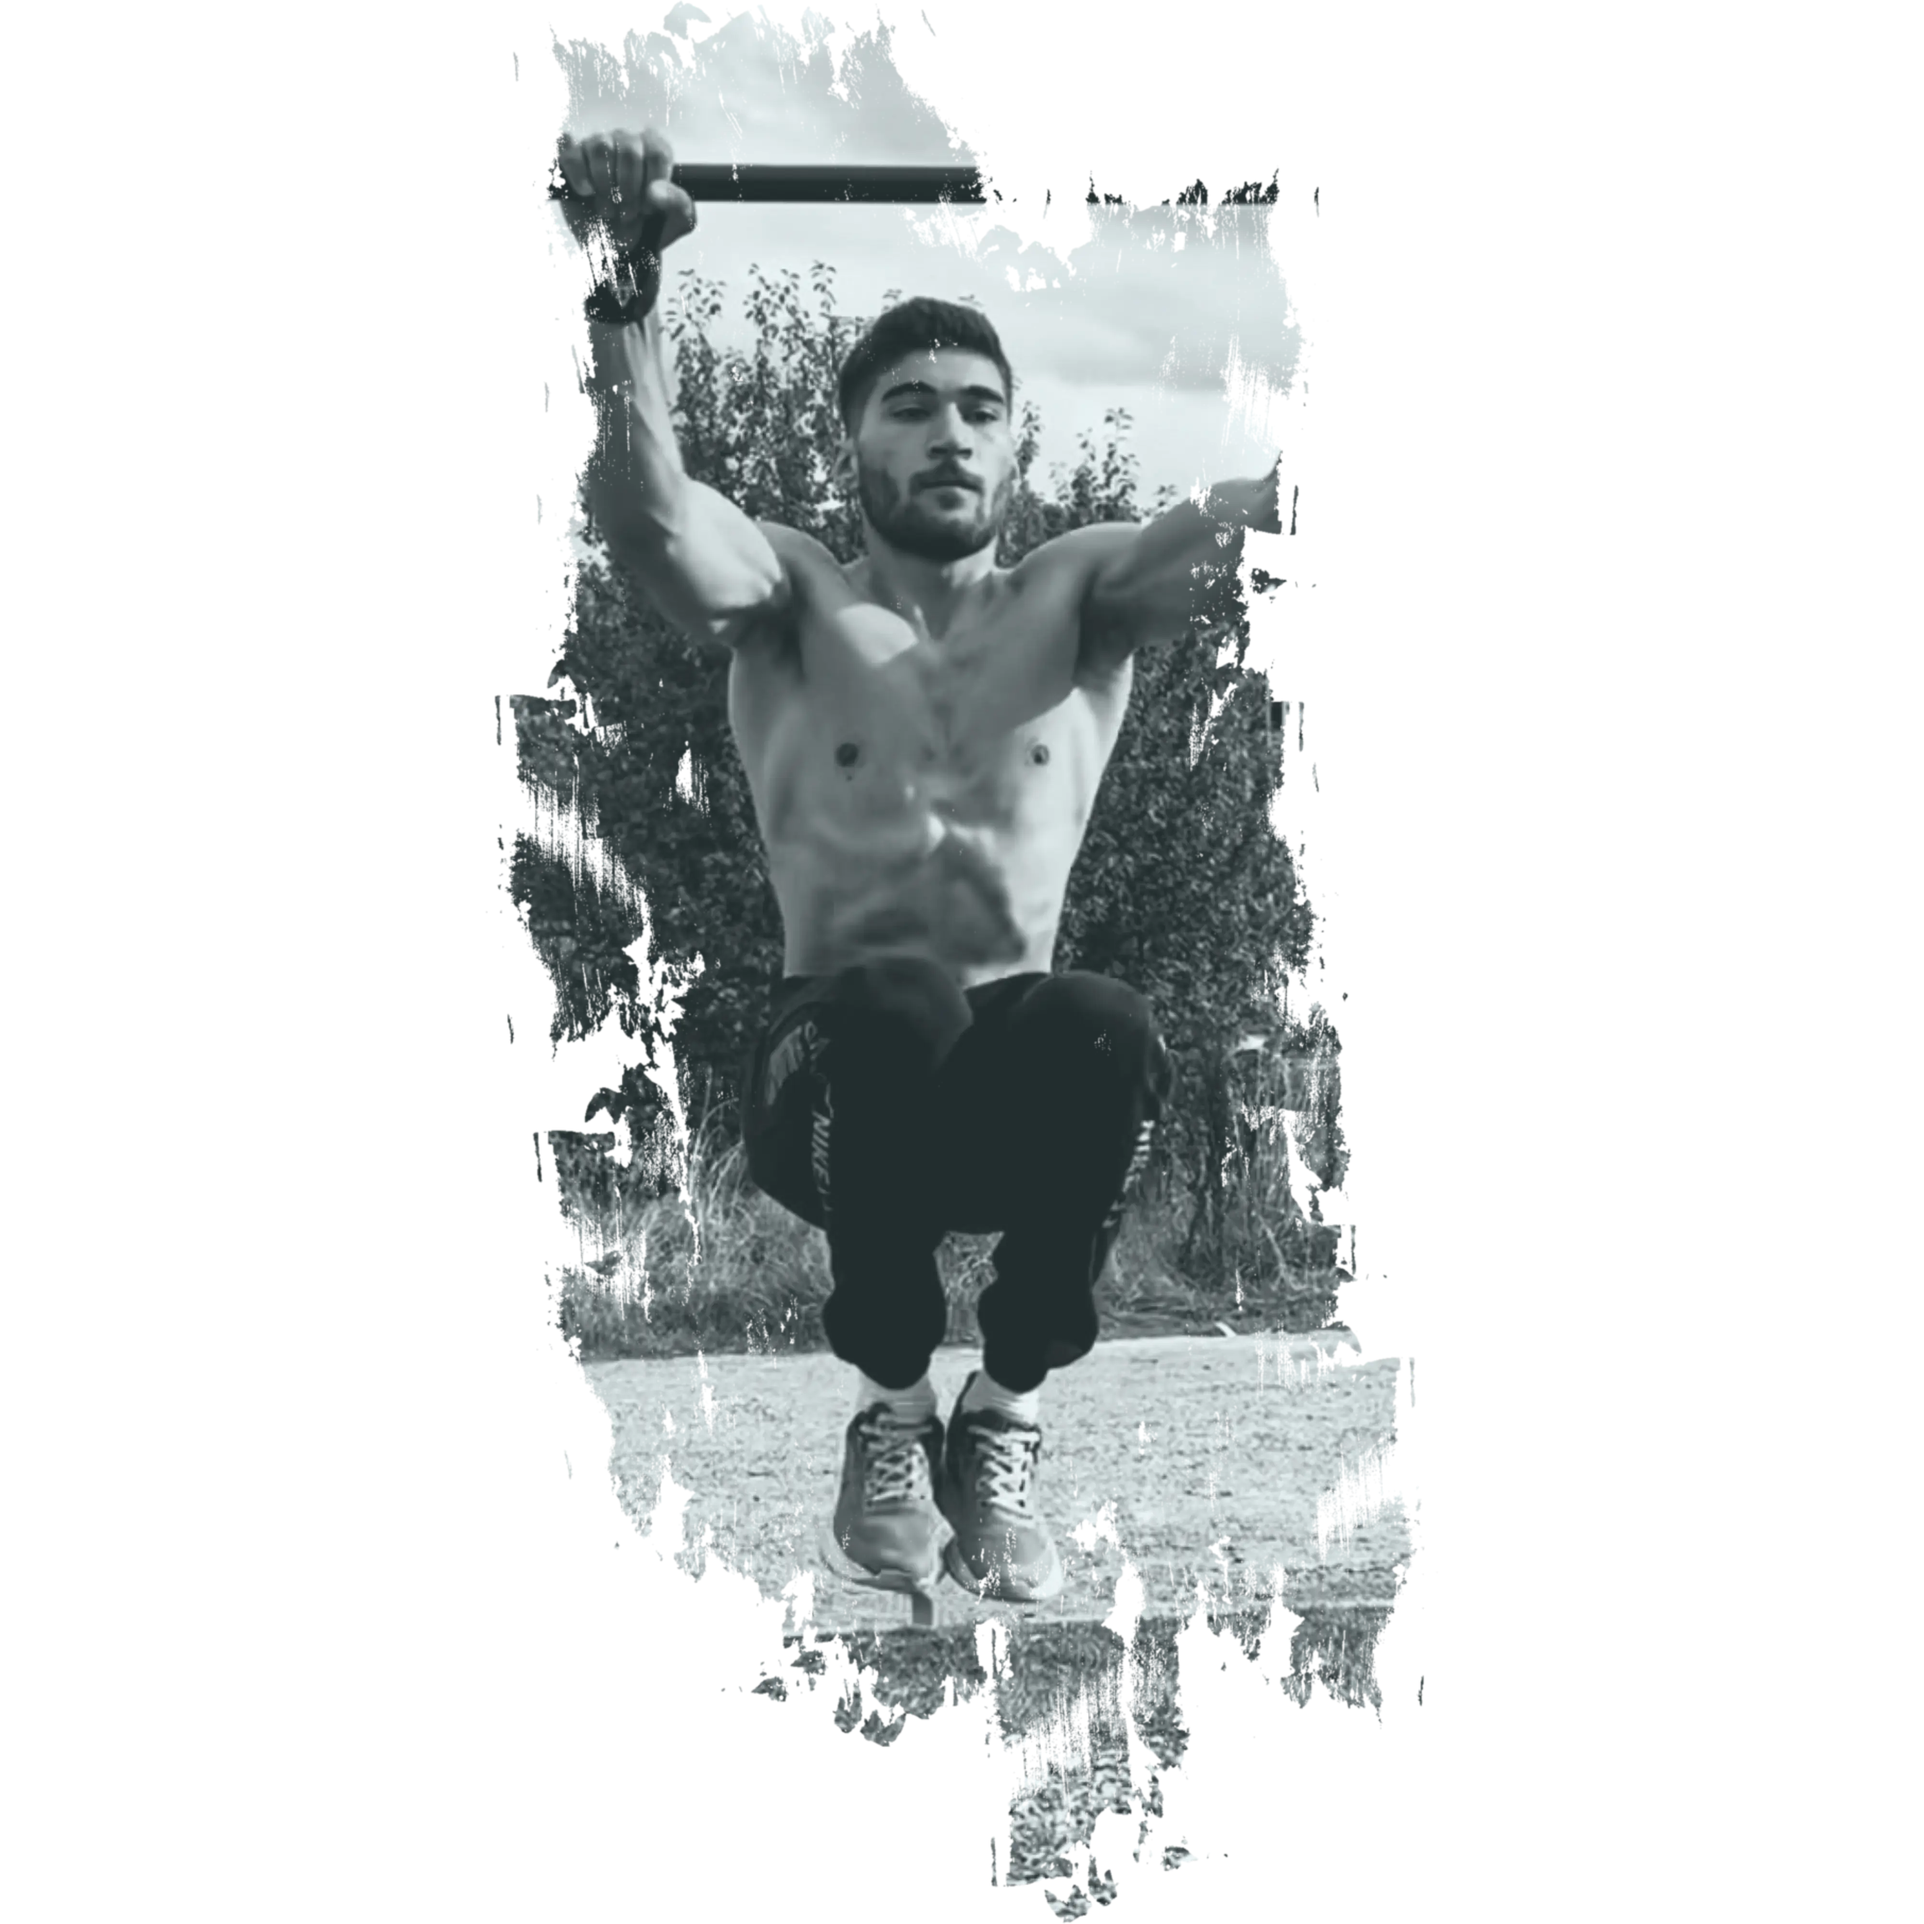
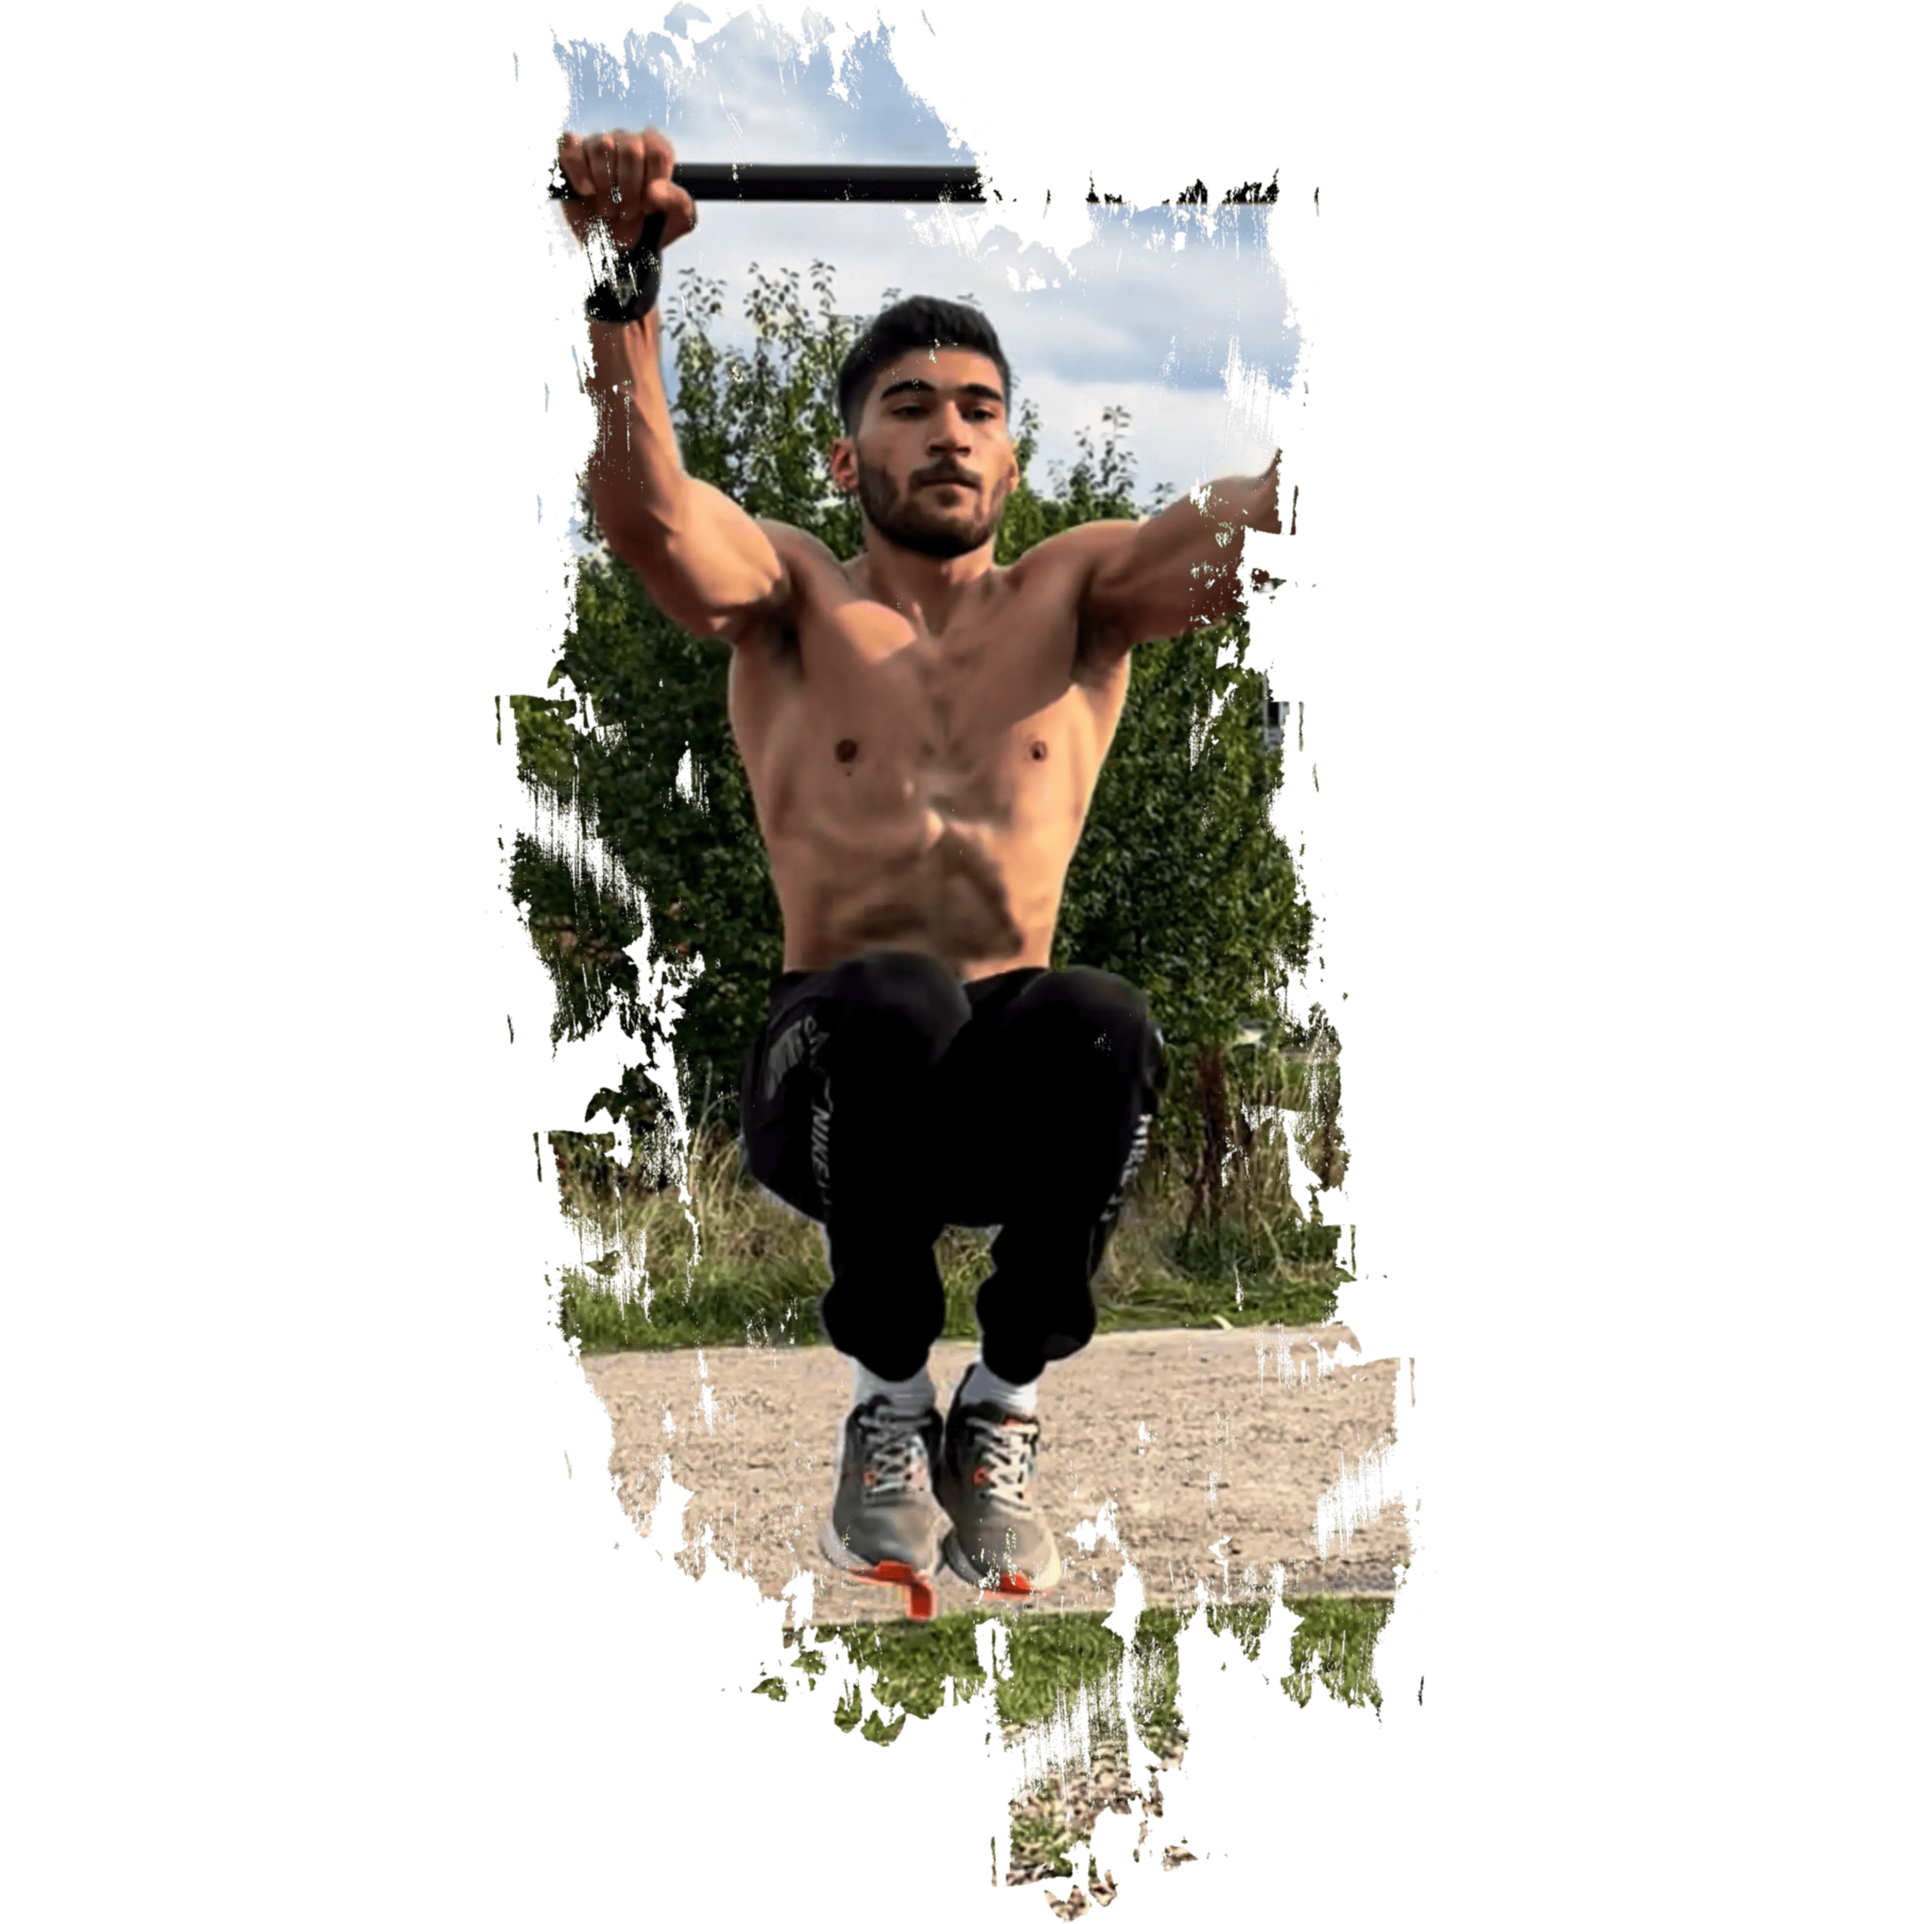
interest section

Changed region(s): [[0.25, 0.0312, 0.75, 1.0], [0.5938, 0.0938, 0.6562, 0.125], [0.5938, 0.1875, 0.625, 0.2188]]

diff --git a/src/components/sections/calisthenicsPage/calisthenicsPage.tsx b/src/components/sections/calisthenicsPage/calisthenicsPage.tsx
@@ -1,0 +1,28 @@
+'use client'
+ import styles from './calisthenicsPage.module.css'
+import SectionLayout from "@/components/sectionLayout/sectionLayout";
+import {sections} from "../../../../dataEntry";
+import Image from "next/image";
+
+export default function CalisthenicsPage(){
+    return(
+        <>
+            <SectionLayout id={sections.calisthenicsPage.id} name={sections.calisthenicsPage.title} number={5} >
+                <div className={`${styles.Container}`}>
+                    <div className={`${styles.LeftSide}`}>
+                        <div className={`${styles.Content}`}>
+                            I am passionate about calisthenics and enjoy the physical and mental benefits it provides.
+                            It's a great sport for strength training and flexibility.
+                            I particularly like mastering new skills like pull-ups, push-ups, and various bodyweight exercises.
+                        </div>
+
+                    </div>
+                    <div className={`${styles.RightSide}`}>
+                        <Image priority={true} width={700} height={700} className={`${styles.Image} Photo_animation`}
+                               src={'/assets/photo/sport.webp'} alt={'landingPageBG'}/>
+                    </div>
+                </div>
+            </SectionLayout>
+        </>
+    );
+}

diff --git a/src/app/[lng]/page.tsx b/src/app/[lng]/page.tsx
@@ -8,6 +8,7 @@ import ContactPage from "@/components/sections/contactPage/contactPage";
 import { Analytics } from '@vercel/analytics/react';
 import {useRouter} from "next/router";
 import {useEffect} from "react";
+import CalisthenicsPage from "@/components/sections/calisthenicsPage/calisthenicsPage";
 
 export default function Home() {
 
@@ -18,6 +19,7 @@ export default function Home() {
     <SkillsPage />
     <ProjectsPage />
     <ResumePage />
+    {/*<CalisthenicsPage />*/}
     <ContactPage />
     <Analytics />
 </>

diff --git a/src/components/sections/calisthenicsPage/calisthenicsPage.module.css b/src/components/sections/calisthenicsPage/calisthenicsPage.module.css
@@ -1,0 +1,15 @@
+.Container {
+    display: flex;
+    justify-content: center;
+    align-items: center;
+
+}
+.Content {
+    font-size: 1.3rem;
+    width: 75%;
+}
+.LeftSide {
+    width: 50%;
+    display: flex;
+    justify-content: center;
+}

diff --git a/dataEntry.tsx b/dataEntry.tsx
@@ -26,6 +26,10 @@ export const sections = {
         id: "connectPage",
         title: 'Connect'
     },
+    calisthenicsPage: {
+        id: "calisthenicsPage",
+        title: 'Calisthenics'
+    },
 }
 
 
